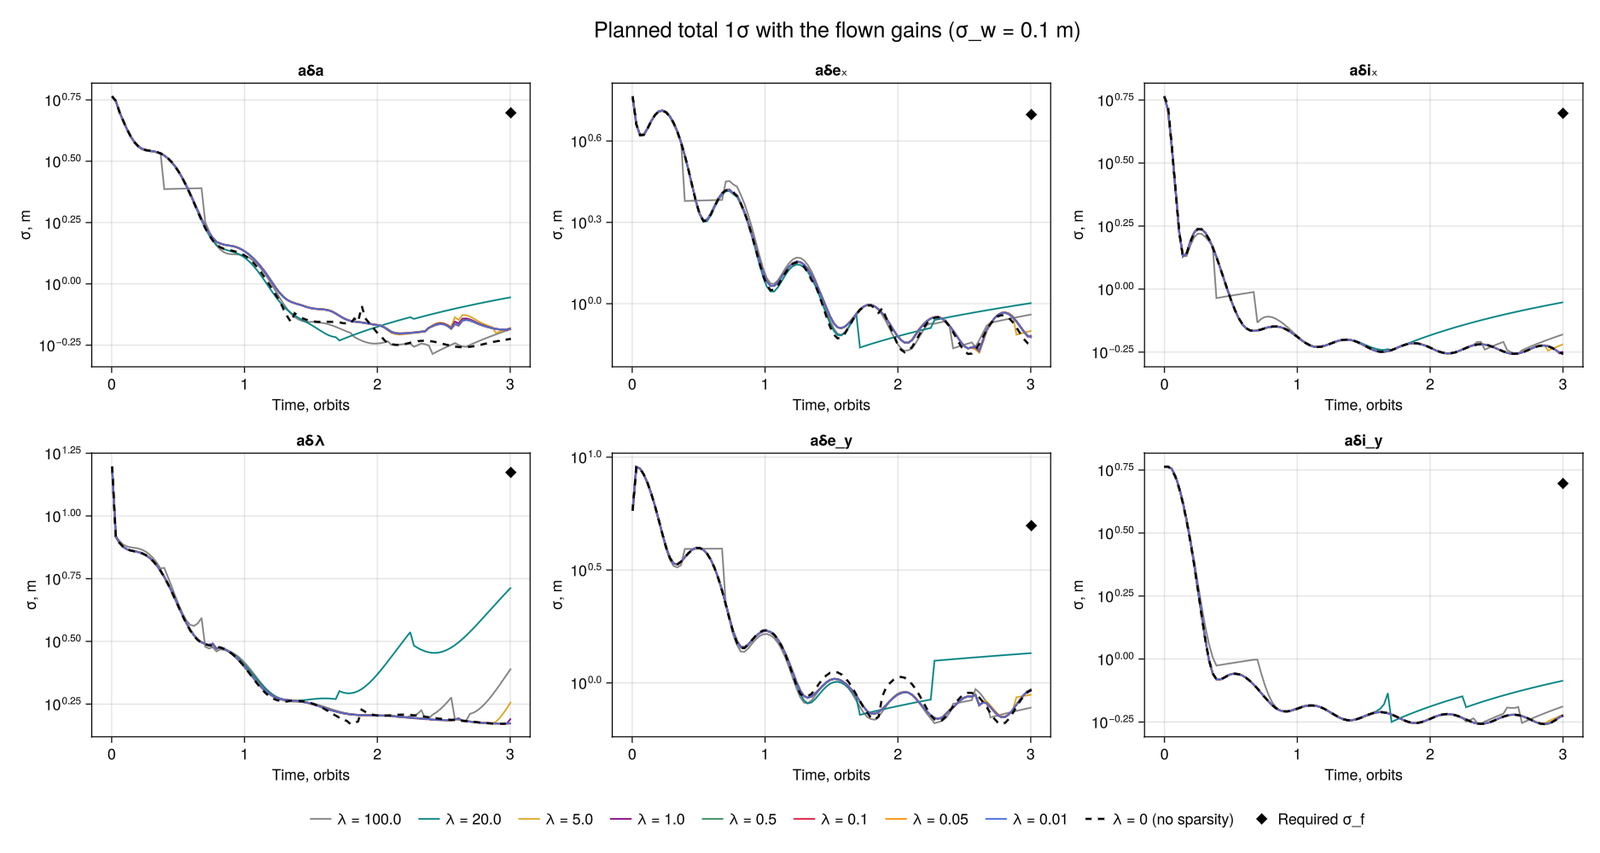
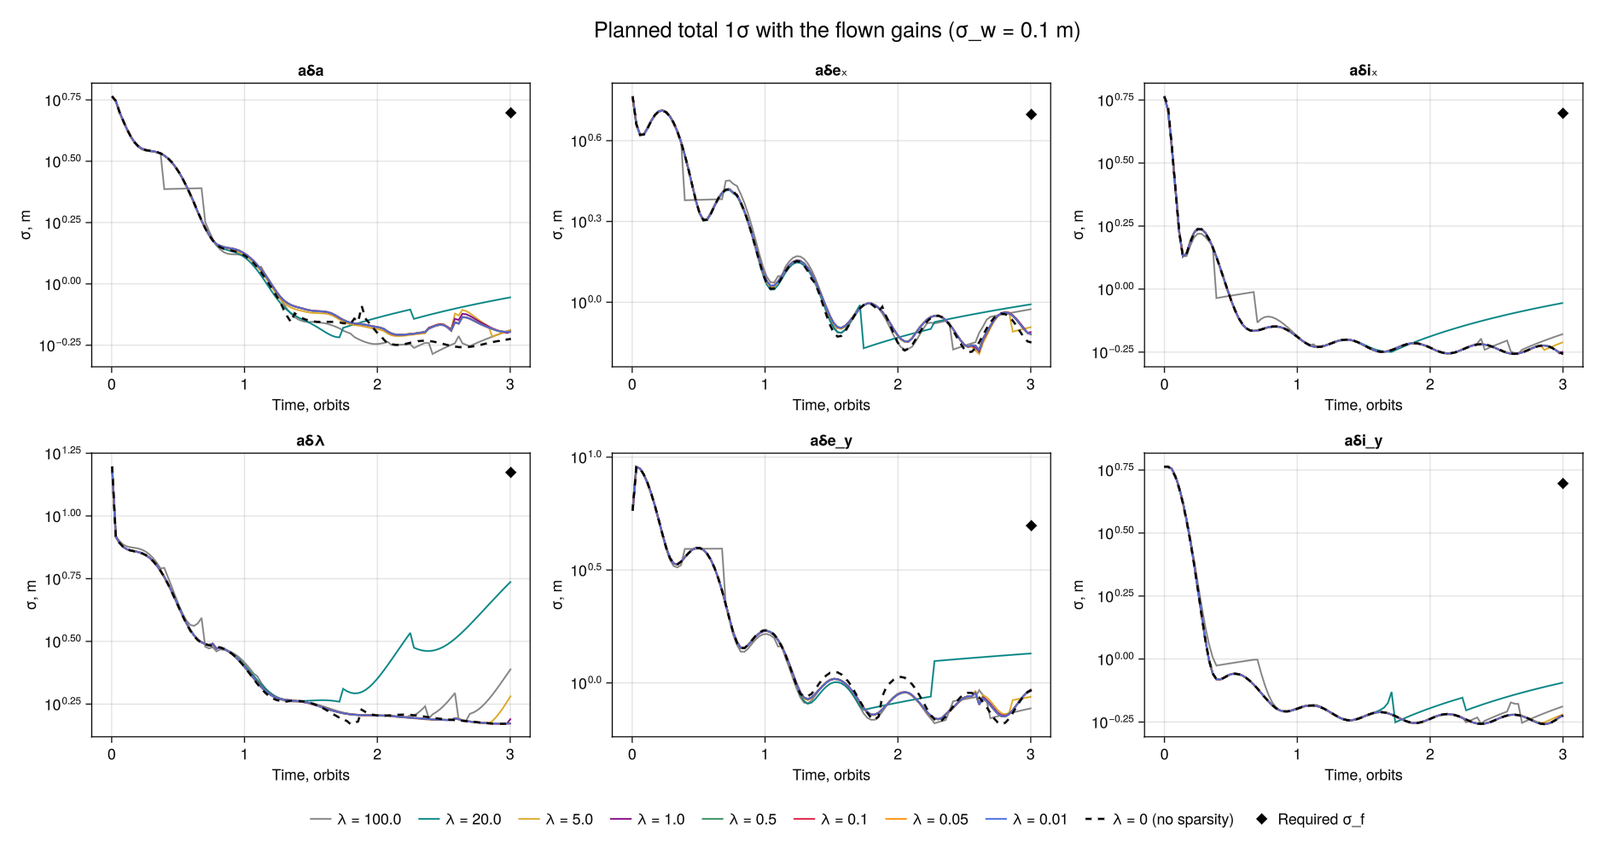
2026 nov updates

diff --git a/index.html b/index.html
@@ -83,19 +83,19 @@
       <p>When two spacecraft meet in orbit, navigation is imperfect and thrusters are noisy, and a small error at a few meters per second can end in a collision. We design the nominal trajectory and the spread of possible errors at the same time, so that safety constraints hold with a chosen probability rather than only in the ideal case.</p>
       <h3 class="sub">What is established</h3>
       <ol class="pipeline" aria-label="Method pipeline">
-        <li>Relative motion in quasi-nonsingular relative orbit elements (QNS-ROE) with J₂, as a discrete-time linear model</li>
+        <li>Relative motion in quasi-nonsingular relative orbit elements (QNS-ROE) with J₂, as a discrete-time linear model; for low orbits, a 9-state model adds differential-drag drift rates fitted to the high-fidelity simulation</li>
         <li>Output feedback through an offline-precomputed Kalman filter</li>
         <li>Chance constraint on control magnitude, recast as a second-order cone through a χ² quantile bound</li>
-        <li>Sequential convex programming with a linearized e/i-vector passive-safety constraint</li>
+        <li>Sequential convex programming with a linearized e/i-vector passive-safety constraint, plus a path bound on the total covariance written as a convex LMI</li>
+        <li>Hands-off (sparse) feedback: IRL1P ranks the steps, then a polish step switches feedback off on the largest set that still passes every check with the gains actually flown</li>
         <li>Policy designed offline on the ground and exported as a file; on board, the spacecraft only filters and applies <i>u</i> = <i>v</i> + <i>K</i>(<i>x̂</i> − <i>μ</i>)</li>
         <li>Closed-loop execution in a nonlinear high-fidelity simulation, checked with Monte Carlo runs</li>
       </ol>
       <h3 class="sub">Current work</h3>
       <ul class="plain">
-        <li><b>Differential drag:</b> an augmented 9-state QNS-ROE model with drag states. I am adjusting its parameters and debugging it before it goes into the closed loop.</li>
-        <li><b>Sparse feedback:</b> hands-off gains through iteratively reweighted ℓ<sub>1,p</sub> regularization (after Kumagai and Oguri). I have run a first sweep of the sparsity weight (below) and am debugging why the result is not yet monotone in that weight.</li>
-        <li><b>Process noise:</b> calibrating it from residuals between the nonlinear simulation and the linear model.</li>
-        <li><b>Next:</b> robust e/i constraints inside the nonlinear closed loop, larger Monte Carlo samples, and the conference paper.</li>
+        <li><b>Sparse feedback with drag:</b> combining the two in the 350 km low-orbit case.</li>
+        <li><b>Consistent process noise:</b> the same design noise per step is not the same noise per orbit when the step size changes, so I am making it consistent across the two settings, calibrated from residuals between the nonlinear simulation and the linear model.</li>
+        <li><b>Next:</b> solar radiation pressure and other perturbations, robust e/i constraints inside the nonlinear closed loop, larger Monte Carlo samples, and the conference paper.</li>
       </ul>
       </div>
 
@@ -111,13 +111,31 @@
           <figcaption><b>Passive safety.</b> e/i-vector angle along the transfer for a nominal cone constraint and the chance-constrained cone, against the allowed maximum (dashed).</figcaption></figure>
       </div>
 
-      <h3 class="sub">Work in progress: sparse feedback sweep</h3>
-      <p class="narrow">I swept the sparsity weight λ from 0.01 to 100 at two design process-noise levels, σ<sub>w</sub> = 0.1 m and 1 m. Each policy was checked against the terminal-covariance requirement, the control chance constraint and 20 closed-loop runs in the nonlinear simulation. At σ<sub>w</sub> = 0.1 m, λ = 20 switched feedback off on 45 of 107 steps, mostly late in the transfer, with every check still met. At σ<sub>w</sub> = 1 m the terminal covariance has almost no margin, so little feedback can be removed. The response is not yet monotone in λ (λ = 100 removes fewer steps than λ = 20), which is what I am debugging now.</p>
+      <h3 class="sub">Two settings, one transfer</h3>
+      <p class="narrow">The same rendezvous is flown in two settings: a baseline at a = 7000 km (3 orbits, 107 steps) with J₂, Moon and Sun, and a low orbit at 350 km (6 orbits, 71 steps) where differential drag also matters. The chaser closes from 1000 m to 100 m along track and from 400 m to 100 m in the e/i vectors, under a 100 mm/s per-step thrust limit, a 1% chance constraint, a 30° e/i cone and noisy relative-orbit measurements.</p>
+      <div class="figs one">
+        <figure><button class="zoom" data-group="res"><img src="assets/research/two-settings.png" alt="Comparison of the baseline and 350 km settings: time grids, perturbation magnitudes, the transfer in the R-N plane, and process noise per orbit"></button>
+          <figcaption><b>The two settings.</b> Time grids, the size of each perturbation, the transfer in the radial–normal plane, and why the same noise per step is not the same noise per orbit.</figcaption></figure>
+      </div>
+
+      <h3 class="sub">Sparse (hands-off) feedback</h3>
+      <p class="narrow">Feedback on every step means many small impulses. I swept the sparsity weight λ from 0.01 to 100 at two design noise levels and checked every policy with the gains actually flown: terminal covariance, the control chance constraint and 20 nonlinear Monte Carlo runs. All patterns passed, with 0 of 2140 sampled controls above the thrust limit. At σ<sub>w</sub> = 0.1 m, λ = 20 switches feedback off after about 1.7 orbits (44 of 107 steps) and λ = 100 switches off 31 steps in four blocks. At σ<sub>w</sub> = 1 m, small λ removes only a few steps at the end, but λ = 100 removes 72 of 107 and lowers the mean Δv from 530 to 457 mm/s.</p>
       <div class="figs two">
-        <figure><button class="zoom" data-group="res"><img src="assets/research/sparse-sweep-steps.png" alt="Steps with feedback switched on over three orbits for each sparsity weight lambda"></button>
-          <figcaption><b>Where feedback stays on.</b> Each row is one sparsity weight λ; large dots are steps with feedback, small gray dots are steps where the gain is zero (σ<sub>w</sub> = 0.1 m).</figcaption></figure>
+        <figure><button class="zoom" data-group="res"><img src="assets/research/sparse-gain-sw01.png" alt="Feedback gain norm per step over three orbits for lambda 0, 5, 20 and 100 at design noise 0.1 m"></button>
+          <figcaption><b>Feedback gain per step, σ<sub>w</sub> = 0.1 m.</b> λ = 5 drops the last steps, λ = 20 stops feedback after about 1.7 orbits, λ = 100 in four blocks.</figcaption></figure>
+        <figure><button class="zoom" data-group="res"><img src="assets/research/sparse-gain-sw1.png" alt="Feedback gain norm per step over three orbits for lambda 0, 5, 20 and 100 at design noise 1 m"></button>
+          <figcaption><b>Feedback gain per step, σ<sub>w</sub> = 1 m.</b> λ = 100 keeps feedback on only 35 of 107 steps, all of them suggested by IRL1P.</figcaption></figure>
+        <figure><button class="zoom" data-group="res"><img src="assets/research/sparse-irl1p-polish.png" alt="Steps IRL1P suggests switching off, shaded, with the flown gain after polish for lambda 20"></button>
+          <figcaption><b>IRL1P suggestion vs polish (λ = 20).</b> Shaded: the 46 steps IRL1P suggests switching off. Line: the flown gain after polish, which keeps 44 of them off.</figcaption></figure>
         <figure><button class="zoom" data-group="res"><img src="assets/research/sparse-sweep-sigma.png" alt="Planned 1-sigma of each relative orbit element over three orbits for each sparsity weight, with the required terminal values"></button>
-          <figcaption><b>What it costs.</b> Planned 1σ of each relative orbit element with the flown gains, for every λ, against the required terminal 1σ (diamonds).</figcaption></figure>
+          <figcaption><b>What it costs.</b> Planned 1σ with the flown gains for every λ (σ<sub>w</sub> = 0.1 m). It grows once feedback stops but ends inside the requirement (diamonds).</figcaption></figure>
+      </div>
+
+      <h3 class="sub">Differential drag at 350 km: first closed-loop results</h3>
+      <p class="narrow">At 350 km the fitted drift is about −3.5 mm/s in aδa, roughly 19 m of decay per orbit. The 9-state model plans around that drift over 6 orbits. In 20 nonlinear Monte Carlo runs the spread stays within the planned ±3σ band (0.07% of points outside, below the 0.27% of a Gaussian), with terminal 1σ under 2.5 m.</p>
+      <div class="figs one">
+        <figure><button class="zoom" data-group="res"><img src="assets/research/drag-leo350-closed-loop.png" alt="Closed-loop relative orbit elements and control over six orbits at 350 km with differential drag, with Monte Carlo runs inside the planned three-sigma band"></button>
+          <figcaption><b>Closed loop with J₂ and differential drag (350 km).</b> Planned mean (magenta), 20 nonlinear Monte Carlo runs (gray) and the planned ±3σ band; the sloped δa segments are the drag drift.</figcaption></figure>
       </div>
 
       <div class="mine narrow">
@@ -125,9 +143,10 @@
         <p>This is a one-on-one project with Prof. Shimane, who provides guidance, research direction, problem settings and feedback; other faculty occasionally review the work. I wrote most of the code from the start, in two Julia packages: SpacecraftRendezVous.jl for dynamics and simulation, and the covariance-control solver.</p>
         <ul class="plain">
           <li>Formulated and solved the covariance-steering problem in JuMP with the Clarabel solver: Kalman-filter output feedback, second-order-cone chance constraints, and the SCP loop with passive safety.</li>
-          <li>Implemented the QNS-ROE dynamics with J₂, with unit tests and continuous integration, and wrote the augmented differential-drag model that I am now calibrating and debugging.</li>
+          <li>Implemented the QNS-ROE dynamics with J₂, with unit tests and continuous integration, and the 9-state differential-drag model with drift rates fitted to the high-fidelity simulation, now flown in the nonlinear closed loop at 350 km.</li>
           <li>Built the ground-design and on-board-execution split: the offline solver exports the policy, and the nonlinear simulation reads it and runs the filter and feedback loop.</li>
-          <li>Implemented sparse feedback gains (IRL1P, after Kumagai and Oguri) and ran a sweep of the sparsity weight at two process-noise levels; tuning and debugging are in progress.</li>
+          <li>Implemented hands-off feedback (IRL1P ranking after Kumagai and Oguri, plus a polish step), checked every pattern with the flown gains, and swept the sparsity weight at two noise levels.</li>
+          <li>Added the path bound on the total covariance as a convex LMI and built the comparison and diagnostic plots for the sweep.</li>
           <li>Built the nonlinear Monte Carlo pipeline: 200 closed-loop runs met the 1% chance constraint with no violations.</li>
           <li>Presented the work at an AIAA conference in April 2026 and am writing the paper as first author with Prof. Shimane.</li>
         </ul>
